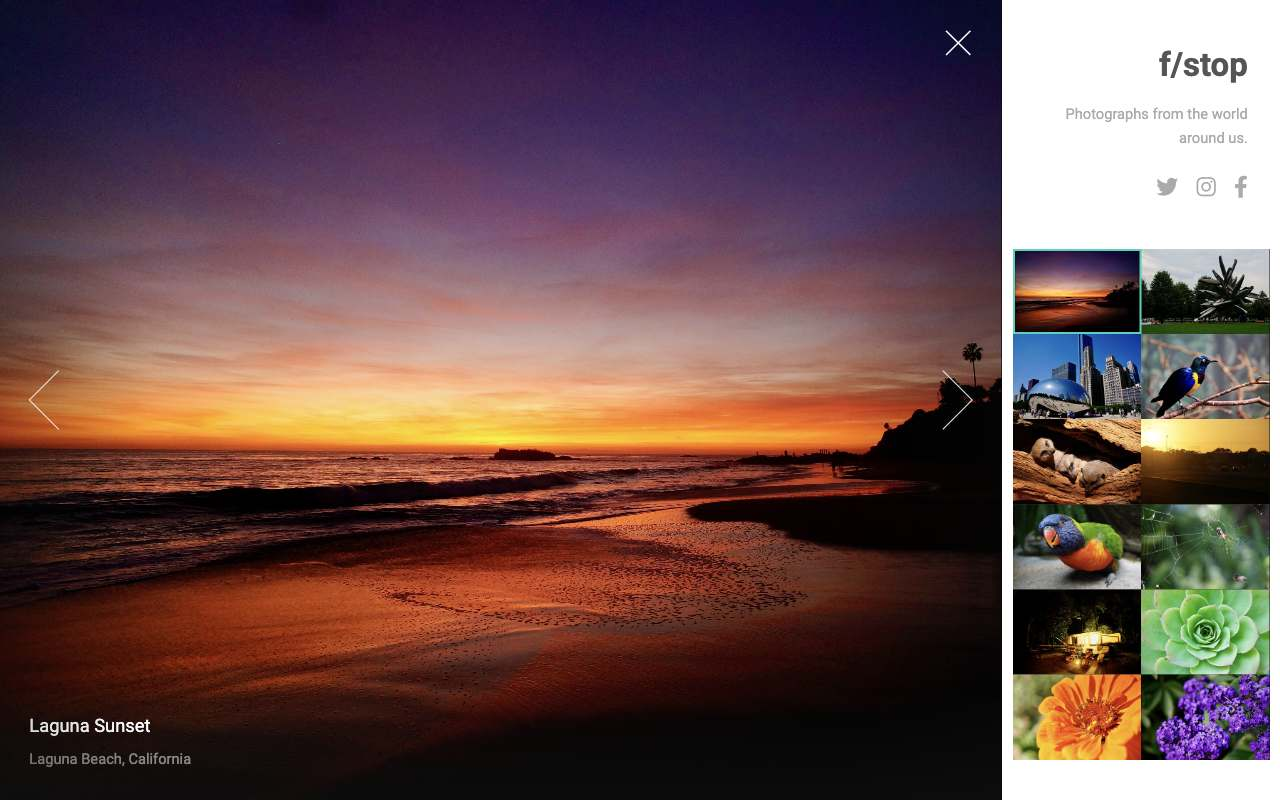
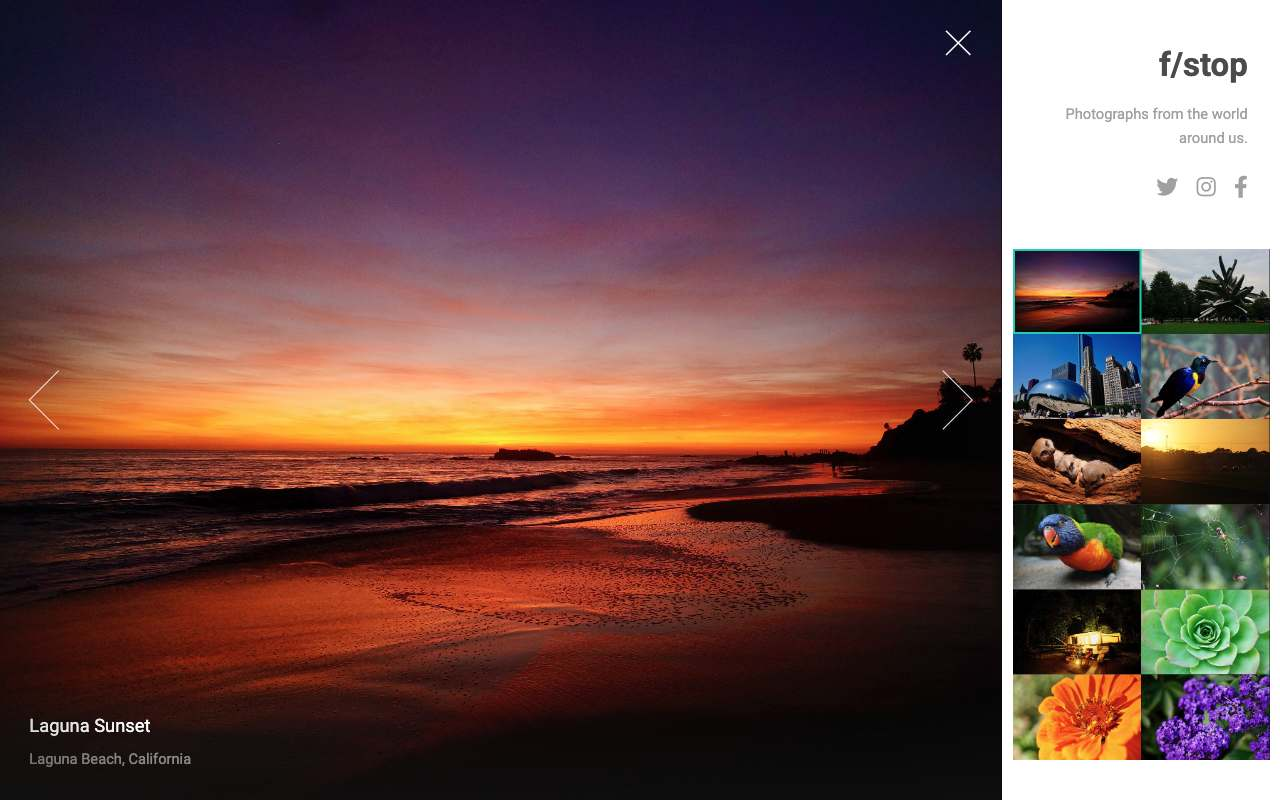
Rotate the accent color on each visit and refresh the Hook’em and f/stop screenshots.

diff --git a/assets/js/theme.js b/assets/js/theme.js
@@ -5,6 +5,83 @@
   var coordsKey = "theme-coords";
   var colors = { light: "#f6f5f2", dark: "#131210" };
   var schemeMeta = document.querySelector('meta[name="color-scheme"]');
+  var lastAccentKey = "accent-last";
+  var accents = [
+    {
+      name: "teal",
+      light: { accent: "#0a5852", hover: "#08443f", btn: "#f6f5f2" },
+      dark: { accent: "#7ed4cb", hover: "#9ee0d8", btn: "#131210" }
+    },
+    {
+      name: "purple",
+      light: { accent: "#5b21b6", hover: "#4c1d95", btn: "#f6f5f2" },
+      dark: { accent: "#c4b5fd", hover: "#ddd6fe", btn: "#131210" }
+    },
+    {
+      name: "blue",
+      light: { accent: "#1d4ed8", hover: "#1e40af", btn: "#f6f5f2" },
+      dark: { accent: "#93c5fd", hover: "#bfdbfe", btn: "#131210" }
+    },
+    {
+      name: "navy",
+      light: { accent: "#1e3a8a", hover: "#172554", btn: "#f6f5f2" },
+      dark: { accent: "#a5b4fc", hover: "#c7d2fe", btn: "#131210" }
+    },
+    {
+      name: "yellow",
+      light: { accent: "#854d0e", hover: "#713f12", btn: "#f6f5f2" },
+      dark: { accent: "#facc15", hover: "#fde047", btn: "#131210" }
+    },
+    {
+      name: "black",
+      light: { accent: "#171717", hover: "#0a0a0a", btn: "#f6f5f2" },
+      dark: { accent: "#f5f5f4", hover: "#ffffff", btn: "#131210" }
+    },
+    {
+      name: "red",
+      light: { accent: "#9f1239", hover: "#881337", btn: "#f6f5f2" },
+      dark: { accent: "#fda4af", hover: "#fecdd3", btn: "#131210" }
+    },
+    {
+      name: "orange",
+      light: { accent: "#9a3412", hover: "#7c2d12", btn: "#f6f5f2" },
+      dark: { accent: "#fdba74", hover: "#fed7aa", btn: "#131210" }
+    },
+    {
+      name: "green",
+      light: { accent: "#166534", hover: "#14532d", btn: "#f6f5f2" },
+      dark: { accent: "#86efac", hover: "#bbf7d0", btn: "#131210" }
+    },
+    {
+      name: "pink",
+      light: { accent: "#9d174d", hover: "#831843", btn: "#f6f5f2" },
+      dark: { accent: "#f9a8d4", hover: "#fbcfe8", btn: "#131210" }
+    }
+  ];
+  var currentAccent = pickAccent();
+
+  function pickAccent() {
+    var last = null;
+    try {
+      last = localStorage.getItem(lastAccentKey);
+    } catch (e) {}
+    var choices = accents.filter(function (item) {
+      return item.name !== last;
+    });
+    if (!choices.length) choices = accents;
+    var picked = choices[Math.floor(Math.random() * choices.length)];
+    try {
+      localStorage.setItem(lastAccentKey, picked.name);
+    } catch (e) {}
+    return picked;
+  }
+
+  function applyAccent(theme) {
+    var pair = currentAccent[theme] || currentAccent.light;
+    root.style.setProperty("--accent", pair.accent);
+    root.style.setProperty("--accent-hover", pair.hover);
+    root.style.setProperty("--btn-fg", pair.btn);
+  }
   var dayMs = 86400000;
   var themeTimer;
   var themeToggle;
@@ -235,6 +312,7 @@
         localStorage.setItem(storageKey, theme);
       } catch (e) {}
     }
+    applyAccent(theme);
     if (themeMeta) themeMeta.setAttribute("content", colors[theme]);
     if (themeToggle) {
       var next = theme === "dark" ? "light" : "dark";

diff --git a/index.html b/index.html
@@ -256,7 +256,7 @@
                   src="images/work-hookem.jpg"
                   width="1280"
                   height="800"
-                  alt="Hook'em Fishing Charters homepage over a photo of a boat on the water"
+                  alt="Hook'em Fishing Charters homepage with fishing rods on a boat heading toward the city skyline"
                   loading="lazy"
                   decoding="async"
                 />
